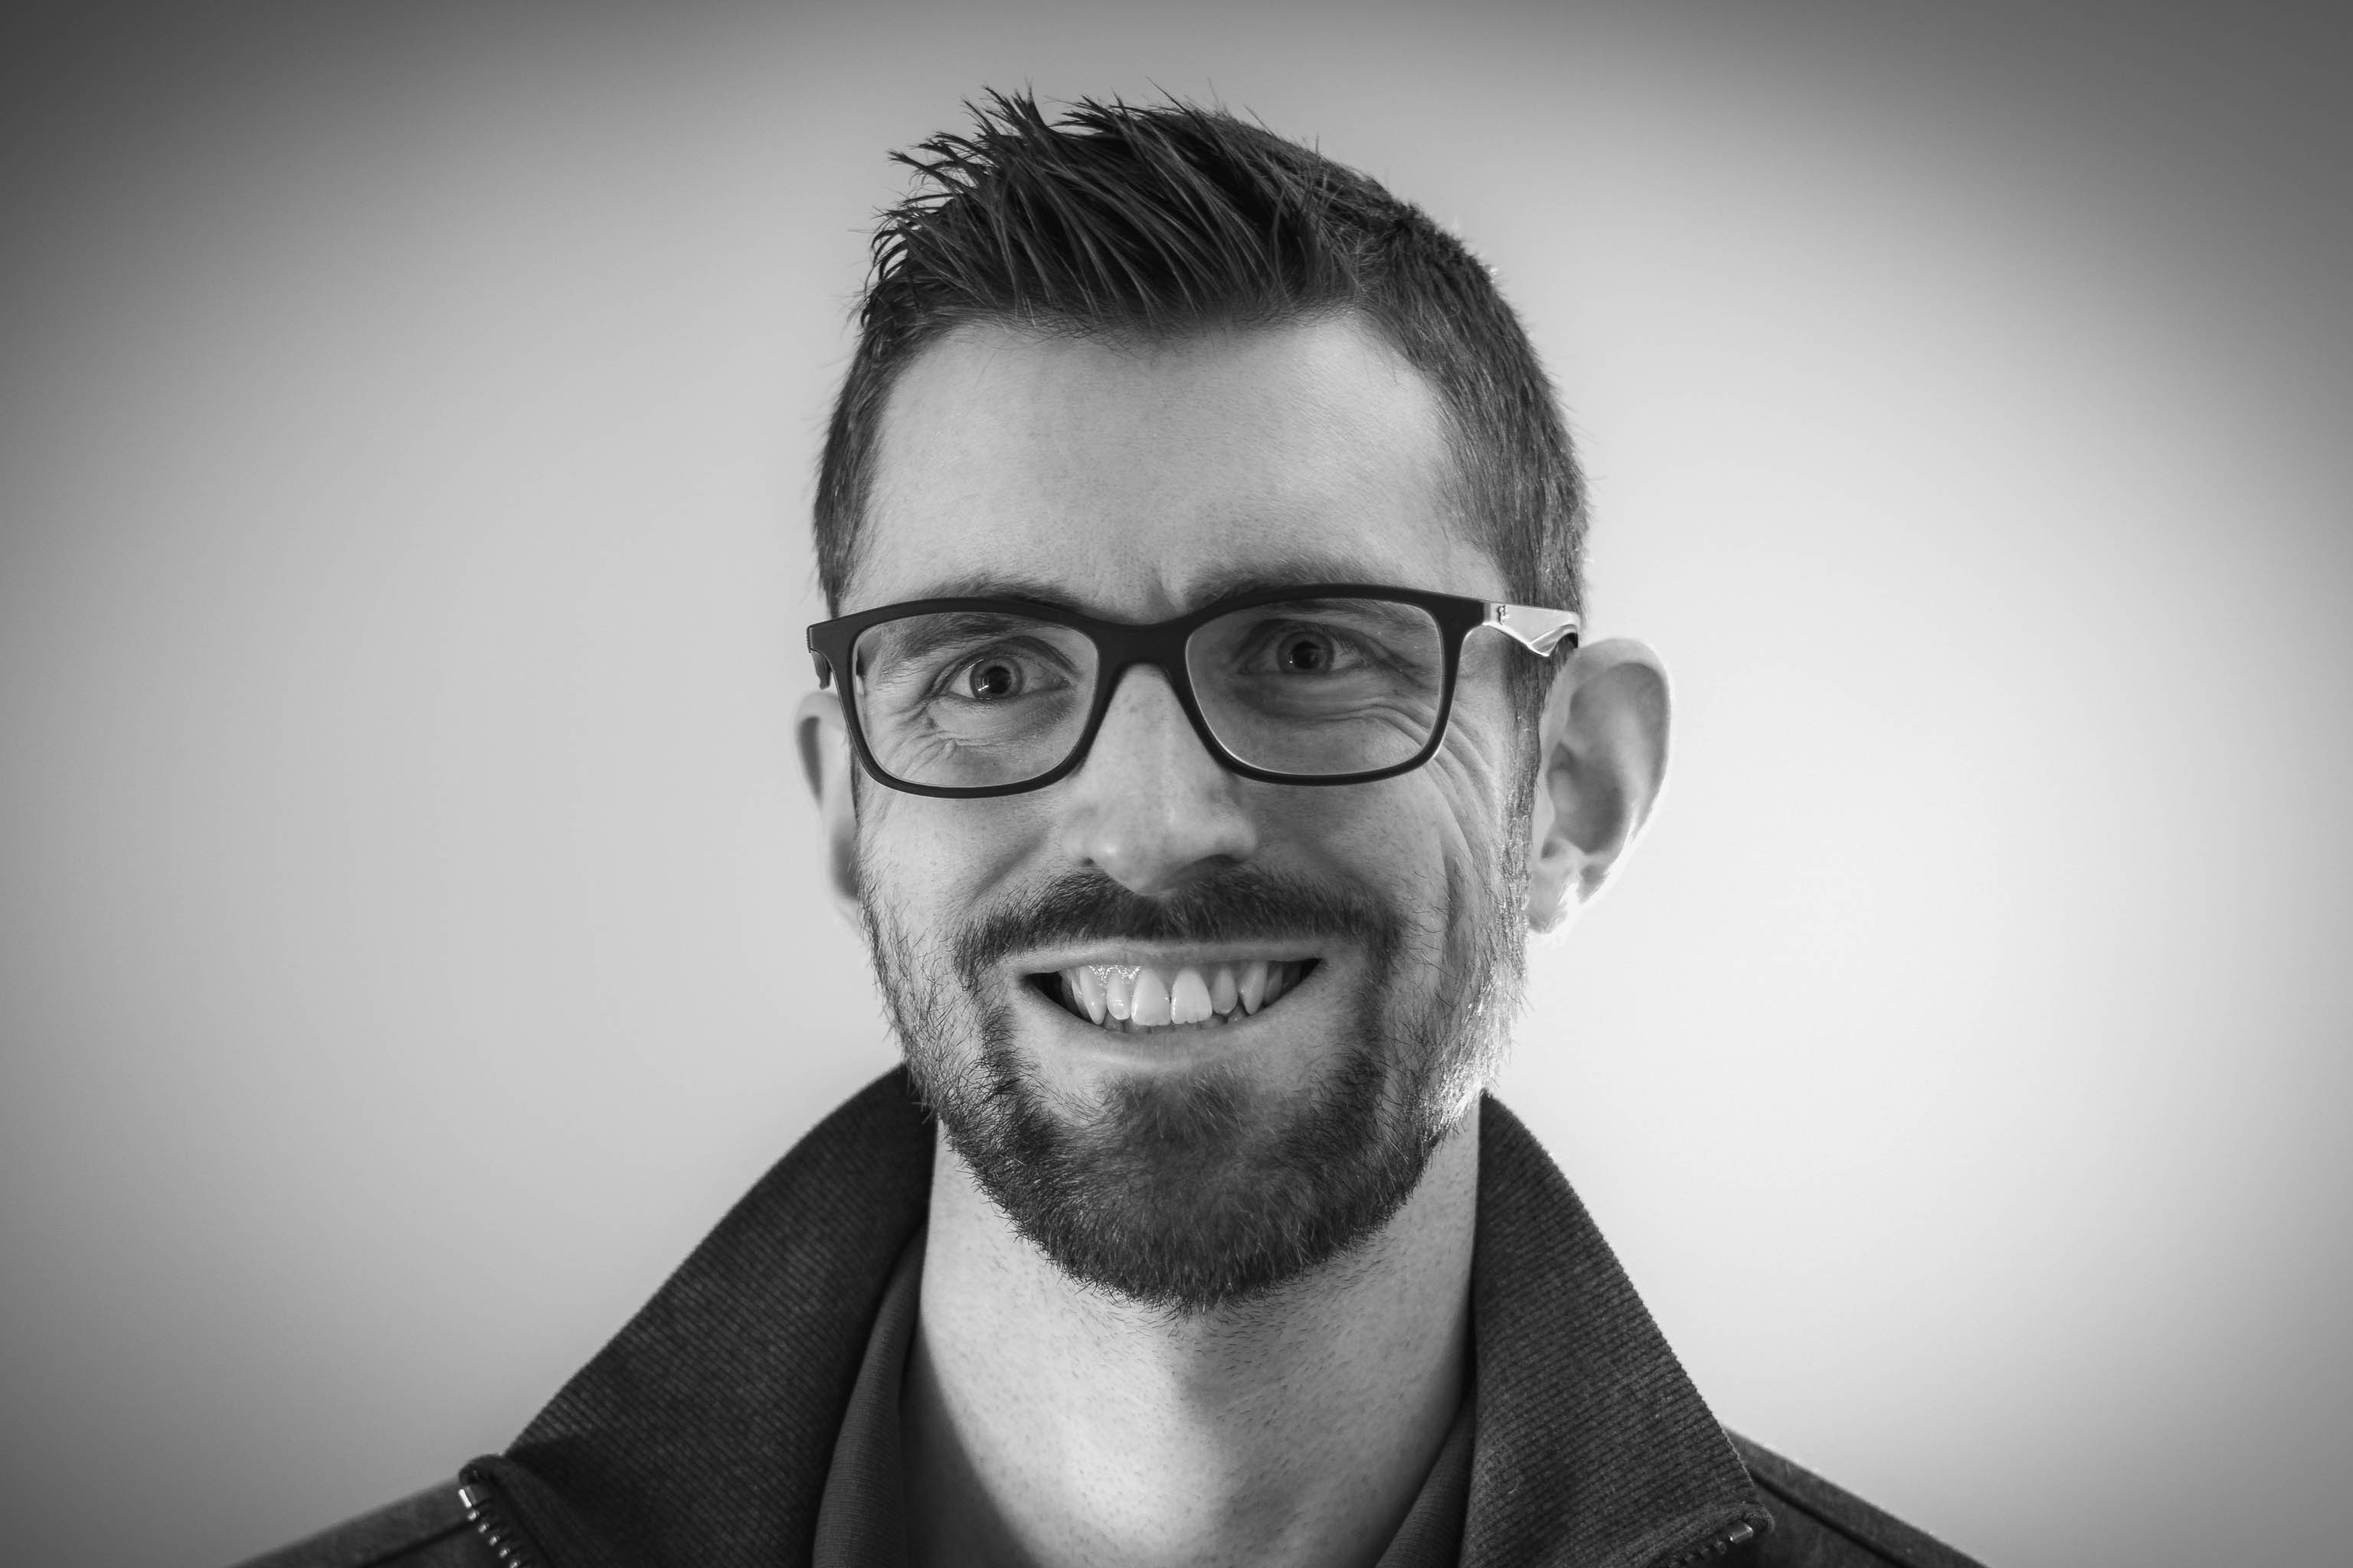
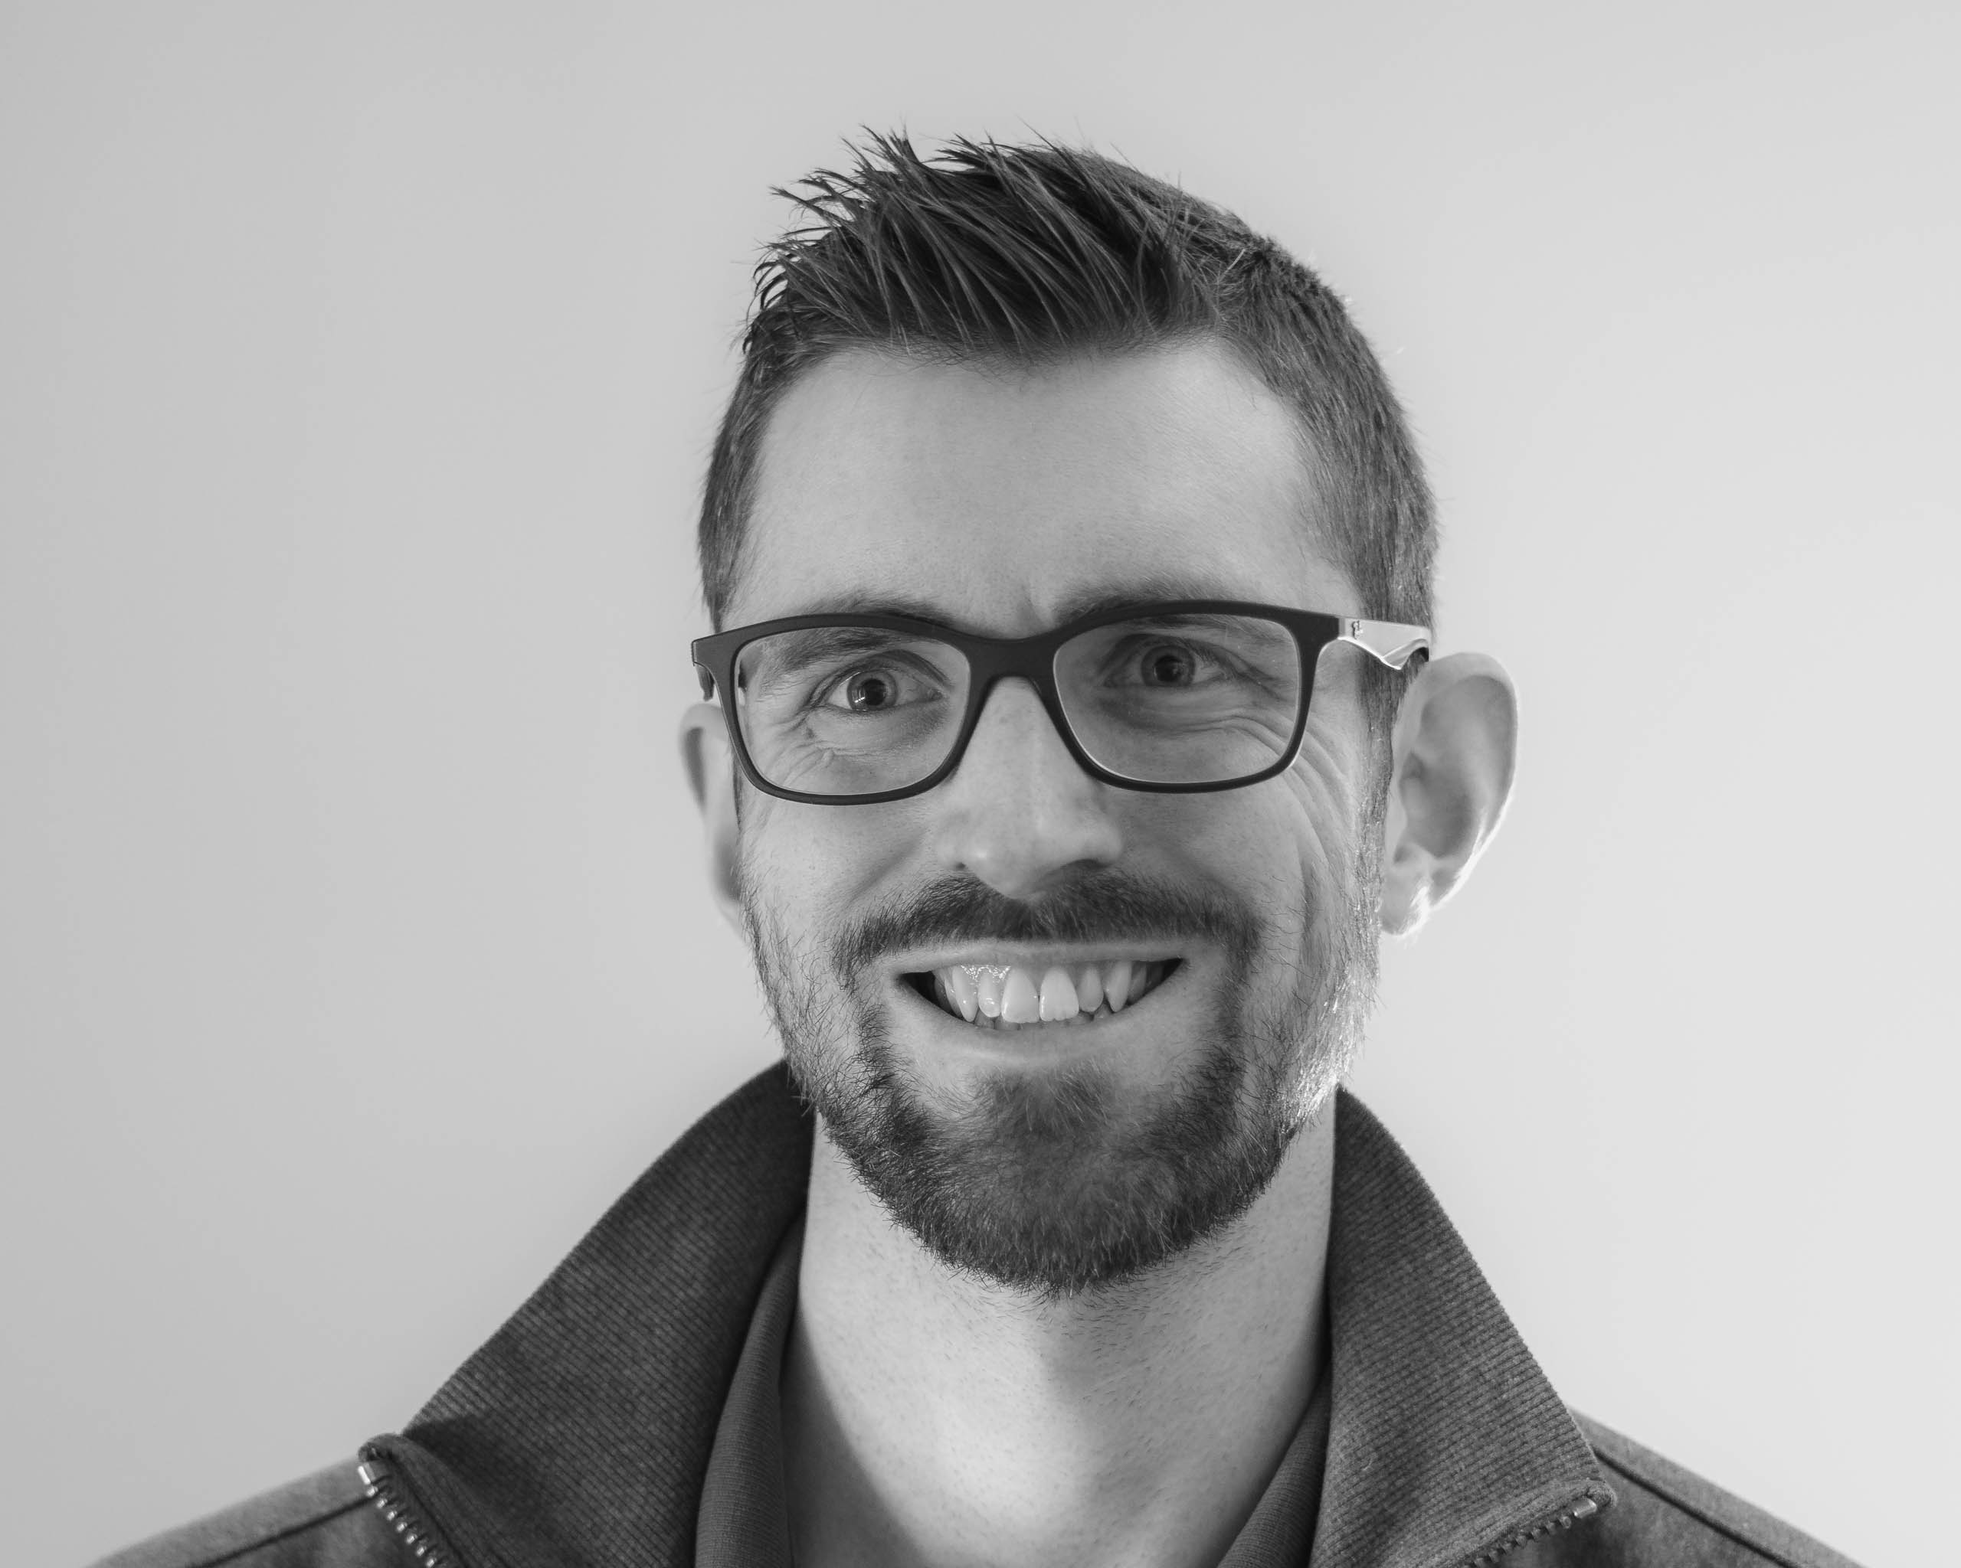
MInor style updates and new img

diff --git a/src/routes/journal/[slug].svelte b/src/routes/journal/[slug].svelte
@@ -126,10 +126,10 @@
         /* font-weight: 600; */
         display: flex;
         justify-content: space-between;
-        margin-top: var(--s2);
+        margin-top: var(--s4);
         /* margin-bottom: var(--s3); */
         flex-wrap: wrap;
-        padding-top: var(--s3);
+        padding-top: var(--s0);
         border-top: 1px solid var(--light-grey);
     }
     nav a {

diff --git a/src/routes/about.md b/src/routes/about.md
@@ -7,6 +7,17 @@ layout: page
     import Portrait from '$static/2019portrait.jpg?w=300;500;700;900;1200;1600;2000;3000&format=webp&srcset'
 </script>
 
+<style>
+    img {
+        margin-top: calc(-1 * var(--s2))
+    }
+    @media screen and (max-width: 1023px) {
+        img {
+            margin-top: 0;
+        }
+    }
+</style>
+
 <img srcset={Portrait} type="image/webp" alt="Russell Portrait" />
 
 Growing up in Calgary, Alberta, Canada I spent time mountain biking, hiking and downhill skiing in the Canadian Rocky Mountains. My interest in outdoor pursuits has continually increased and now includes backcountry skiing and basic mountaineering. As my outdoor experience grew, I began to venture further into the backcountry and started bringing a camera to share my experiences in hard-to-reach places. This has become my preferred style of photography: finding awe-inspiring landscapes, frequently far and high in the mountains.
